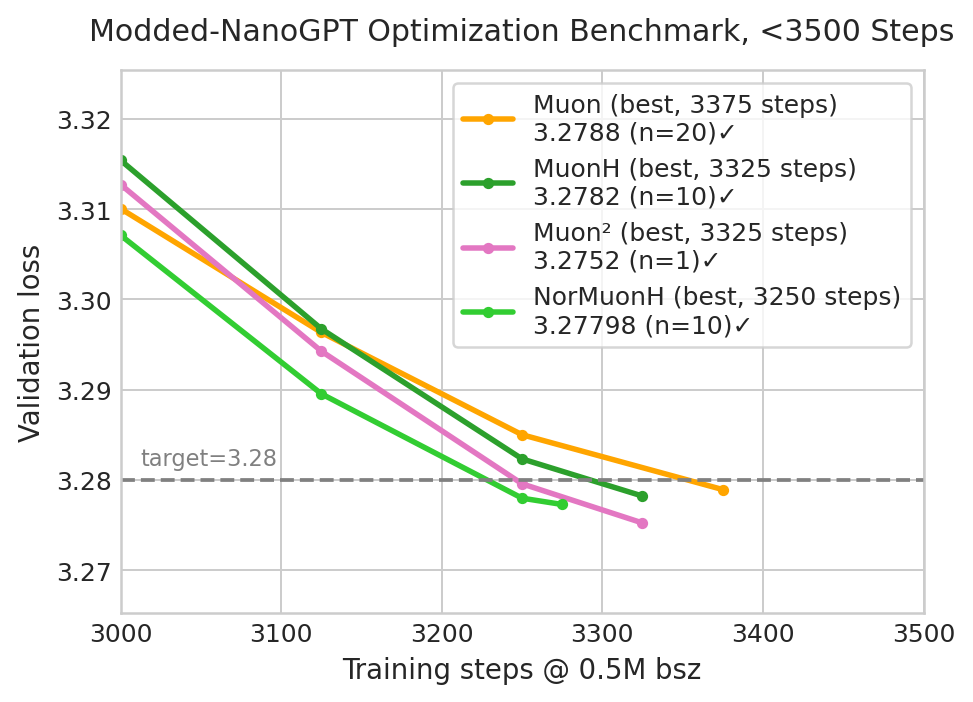
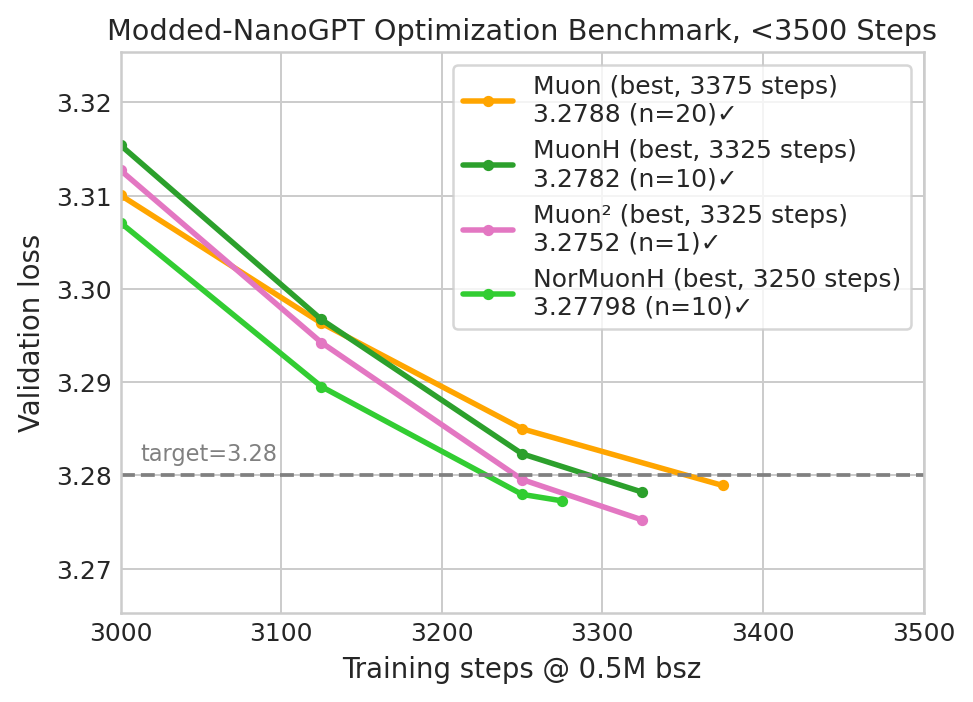
.

diff --git a/records/track_3_optimization/make_figures.py b/records/track_3_optimization/make_figures.py
@@ -157,7 +157,7 @@ ax.annotate(
     color='gray',
     fontsize=9,
 )
-ax.set_title('Modded-NanoGPT Optimization Benchmark, <3500 Steps', pad=12, fontsize=12)
+ax.set_title('Modded-NanoGPT Optimization Benchmark, <3500 Steps', pad=5, fontsize=11.5)
 ax.set_xlabel('Training steps @ 0.5M bsz', fontsize=11)
 ax.set_ylabel('Validation loss', fontsize=11)
 ax.legend(frameon=True)
